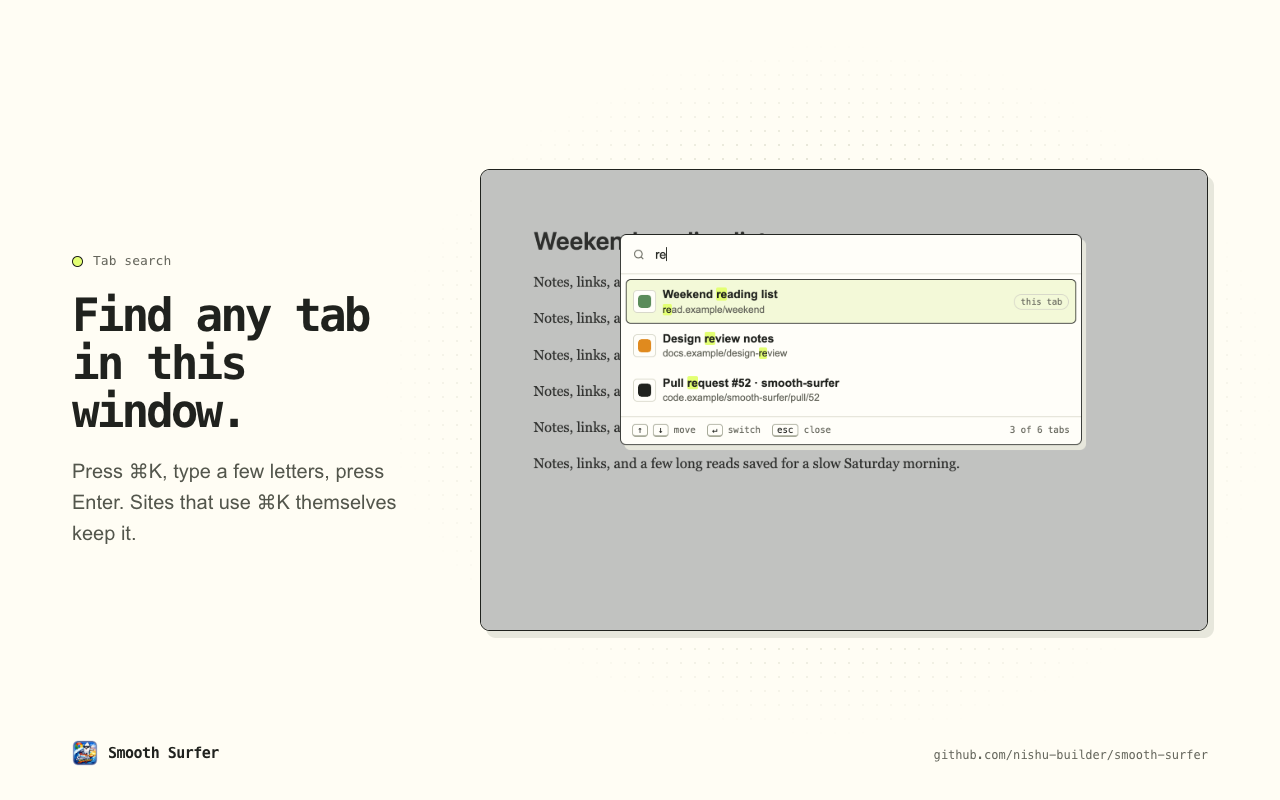
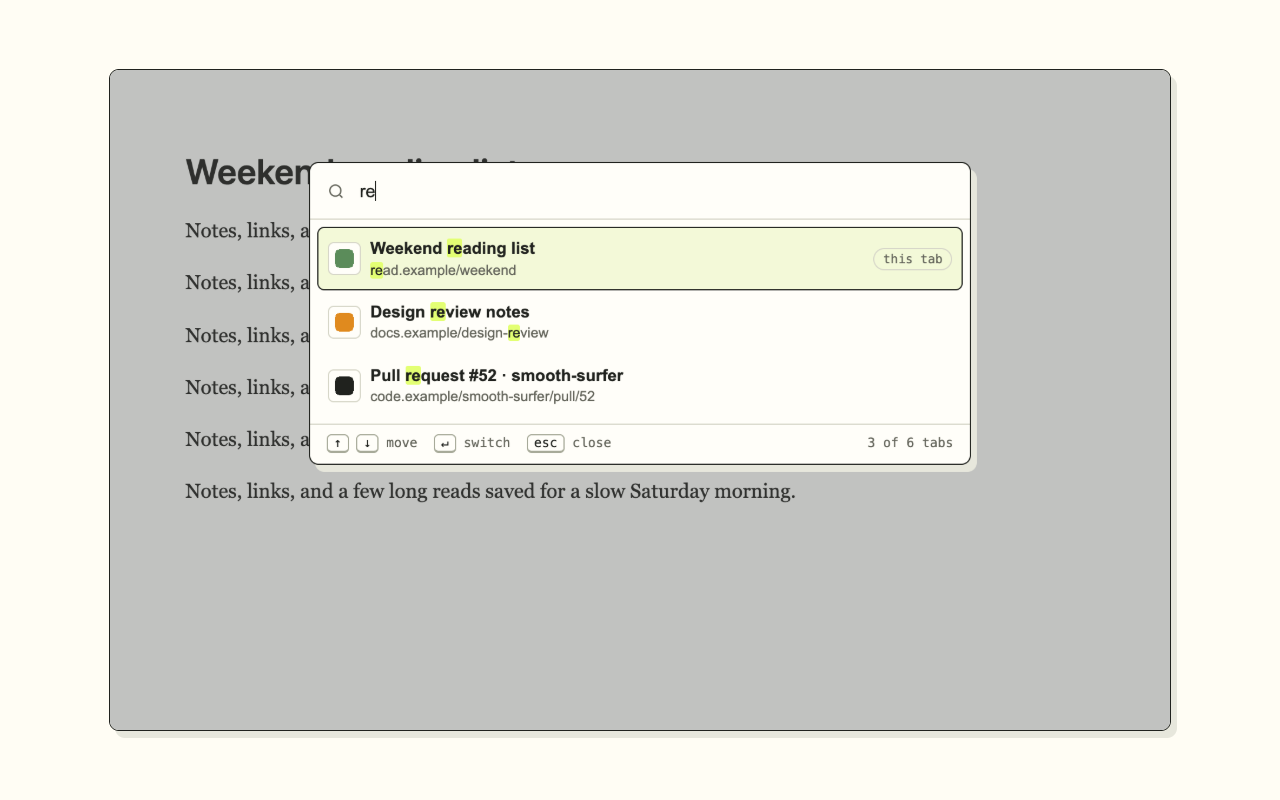
Rewrite the README and store listing in plain words (#62)
The README and listing now open with a plain list of what the extension
does instead of marketing headings, and the store images are plain
captures of the extension with no headline cards. The Consumption Facts
label gets an image, and the promo tile is the icon and name only.

The manifest description changes to match, and RELEASING.md records the
two ways the store step has failed and how to clear each.

diff --git a/README.md b/README.md
@@ -3,20 +3,34 @@
 [![CI](https://github.com/nishu-builder/smooth-surfer/actions/workflows/ci.yml/badge.svg?branch=main)](https://github.com/nishu-builder/smooth-surfer/actions/workflows/ci.yml)
 [![Chrome Web Store](https://img.shields.io/chrome-web-store/v/cgmineplcpnmdfokdblnnapnbpknfghe?label=Chrome%20Web%20Store)](https://chromewebstore.google.com/detail/smooth-surfer/cgmineplcpnmdfokdblnnapnbpknfghe)
 
-Calmer feeds, a pause before habit sites, and pinned tabs that follow you into
-every Chrome window. It works as soon as you install it: no account, no
-analytics, and no Smooth Surfer servers.
+A Chrome extension for making the web less distracting. Some of the things you
+can do with it:
 
-**[Install from the Chrome Web Store →](https://chromewebstore.google.com/detail/smooth-surfer/cgmineplcpnmdfokdblnnapnbpknfghe)**
+- Make things hijack your attention less: hide view counts, Shorts, suggested
+  next videos, make thumbnails, pictures and videos more grayscale, auto-select
+  ‘Following’ feeds over ‘For you’, hide ‘recommended’ posts
+- Filter out content you don’t like (e.g. posts on X/Substack/Reddit) according
+  to LLM-judged rules you set up. And you can review which were filtered out
+  later and note if you agree or not, and why
+- Stop bad habits: can introduce delays that grow with each visit before
+  loading sites you’re prone to getting distracted by
+- Use some sorely missing browser controls: pinned tabs that work more like
+  Arc’s, keyboard shortcuts for changing the speed of a video on your screen,
+  search across tabs
+- See an unserious reflection of your information diet, a la Emmett’s idea
+  [here](https://x.com/eshear/status/1534692002952097792)
 
-![The Smooth Surfer menu: each site and tool shows what is on at a glance](docs/store-assets/01-overview.png)
+It’s on the [Chrome Web Store](https://chromewebstore.google.com/detail/smooth-surfer/cgmineplcpnmdfokdblnnapnbpknfghe),
+or you can [run it from source](#install). There’s no account, no analytics,
+and no server of mine involved. The rest of this page is the detail on each of
+the above.
 
-## What it does
+## Making sites less attention-grabbing
 
-### Calmer feeds
+![The menu, and the YouTube switches](docs/store-assets/01-attention.png)
 
-Cleanup switches for five sites, most on by default. Open the toolbar menu on a
-site and its section opens first, with every switch described in one line.
+Each supported site has its own list of switches in the toolbar menu. Most are
+on by default.
 
 | Site | Switches |
 | --- | --- |
@@ -26,43 +40,49 @@ site and its section opens first, with every switch described in one line.
 | Substack | Hide recommendations |
 | Hacker News | Hide scores |
 
-X, Reddit, Substack, and Hacker News can also use the AI filter below. On X,
-posts stay in place while they are checked; matches fade out, and removals above
-your reading position keep their space so the page never jumps.
+Two more apply on every site except work tools like Docs, GitHub, and Slack:
 
-### AI filter
+- **Gray distracting media** mutes the color of images and video in feeds.
+- **Pause deep scrolling** stops you after about 16 screens of a feed until you
+  choose Keep going.
 
-![Hide posts you'd rather not see, with rules written in plain words](docs/store-assets/02-ai-filter.png)
+**Focus hours** limits all of this to set times of day, including overnight
+ranges.
 
-Describe posts you'd rather not see, like “engagement bait” or “posts that stoke
-FOMO,” and matching posts are hidden. It starts with four editable rules.
+## Filtering posts with rules you write
+
+![The filter settings, and the page listing what it hid](docs/store-assets/02-filter.png)
+
+On X, Reddit, Substack, and Hacker News you can write rules like “engagement
+bait” or “posts that stoke FOMO”, and an LLM hides the posts that match. The
+menu calls this the AI filter. It starts with four rules you can edit.
 
 - **Claude Haiku 4.5** (default) runs with your own Anthropic API key. Optional
   **Analyze images** also sends up to two public post images; it is off by
   default and adds cost and latency.
-- **Gemini Nano** (experimental) runs on this computer through Chrome's
+- **Gemini Nano** (experimental) runs on this computer through Chrome’s
   built-in model. It handles text only and never falls back to the cloud. See
   [on-device setup and limits](docs/LOCAL_MODELS.md).
 
-If the filter is switched on but can't run yet (no key, or no model), the menu
-says so in its header and on each site, with one click to set it up or turn it
-off. If a request fails, posts stay visible and retries are spaced out.
+If the filter is on but can’t run (no key, or no model), the menu says so, with
+one click to set it up or turn it off. If a request fails, posts stay visible
+and retries are spaced out. On X, posts stay in place while they are checked;
+matches fade out, and removals above your reading position keep their space so
+the page doesn’t jump.
 
 On X, the **Less like this** button beside a post opens a rule editor. Write a
 rule, or choose **Suggest rules** and edit one before adding it. Suggestions
 never change your rules on their own.
 
-### Hidden posts
+### Reviewing what was hidden
 
-![Check every call on the Hidden posts page](docs/store-assets/03-hidden-posts.png)
-
-Every post the filter hid appears in **Hidden posts**, with the rule that matched.
-Mark each one a **Right call** or **Wrong call** (← and → on the keyboard),
-optionally explaining why, then choose **Improve rules**. Your selected model
-proposes rewordings and replays your saved examples. A revision is kept only
-if it fixes mistakes without introducing new ones, and the last 30 revisions can
-be undone. It is calibration against your examples, not a guarantee; see
-[the algorithm](docs/CALIBRATION.md).
+Every post the filter hid is listed on the **Hidden posts** page with the rule
+that matched. Mark each one a **Right call** or **Wrong call** (← and → on the
+keyboard) and optionally say why. **Improve rules** then has the model propose
+rewordings and replays your saved examples against them. A revision is kept
+only if it fixes mistakes without introducing new ones, and the last 30
+revisions can be undone. It is calibration against your examples, not a
+guarantee; see [the algorithm](docs/CALIBRATION.md).
 
 <details>
 <summary>Inboxes, keyboard, and storage</summary>
@@ -73,9 +93,9 @@ be undone. It is calibration against your examples, not a guarantee; see
   explain the selected call; Enter returns to the keys.
 - X posts show as native embeds, with saved copies as a fallback.
 - Up to 2,000 hidden and archived posts within 6 MB stay on this device. Hidden
-  posts expire after seven days; archived ones don't. **Archive the rest** moves
+  posts expire after seven days; archived ones don’t. **Archive the rest** moves
   everything still to review into Archived. Calls are stored separately (up to
-  2,000 within 2 MB), so archiving never erases what you taught the filter.
+  2,000 within 2 MB), so archiving never erases them.
 - Improving rules runs in the background and resumes after Chrome restarts.
 
 </details>
@@ -84,13 +104,13 @@ be undone. It is calibration against your examples, not a guarantee; see
 presets, and import or export sets as JSON. Importing adds only what you check,
 up to 20 sets per device, and never includes API keys.
 
-### A pause before habit sites
+## Delays before distracting sites
 
-![A loading delay countdown before x.com](docs/store-assets/04-loading-delay.png)
+![The countdown before x.com, and the list of delayed sites](docs/store-assets/03-loading-delay.png)
 
-Listed sites open behind a short countdown. It's on for YouTube, X, Reddit,
-Substack, and Hacker News by default, and you can add any site from the menu,
-including the one you're on.
+Sites on the list open behind a countdown that gets longer each time you visit
+that day. YouTube, X, Reddit, Substack, and Hacker News are on the list by
+default, and you can add any site from the menu, including the one you’re on.
 
 <details>
 <summary>How the countdown grows</summary>
@@ -98,7 +118,7 @@ including the one you're on.
 - The first wait is 1 second by default (1–300 seconds). Each wait you finish
   that day makes the next one 1.5× longer, up to 20 minutes. Counts reset at
   03:00 local time.
-- The countdown runs only while the tab is visible. Closing the tab early doesn't
+- The countdown runs only while the tab is visible. Closing the tab early doesn’t
   advance the next wait. **Reset count** returns to the first wait.
 - A finished tab keeps its pass across reloads, and waits again after 30 minutes
   in the background. `twitter.com` and `x.com` cover each other.
@@ -107,13 +127,16 @@ including the one you're on.
 
 </details>
 
-### Pinned tabs in every window
+## Browser controls
 
-![Pinned tabs shared across every Chrome window](docs/store-assets/05-pinned-tabs.png)
+![The pinned tabs settings, and the settings that apply on every site](docs/store-assets/04-browser-controls.png)
+
+### Pinned tabs
 
 Press **Cmd+Shift+P** (Alt+P on Windows and Linux) to pin or unpin a tab. Pins
-appear in every regular Chrome window, including new ones, always at the page
-you pinned. Sharing is on by default; turn it off to keep pins per window.
+appear in every regular Chrome window, including new ones, and always sit at
+the page you pinned. Sharing is on by default; turn it off to keep pins per
+window.
 
 <details>
 <summary>How shared pins behave</summary>
@@ -128,36 +151,43 @@ you pinned. Sharing is on by default; turn it off to keep pins per window.
   page in keeps it live. Turn off **Load pins when opened** to keep every copy
   live, for example for unread counts.
 - While sharing is on, the shortcut is the only way to change pins. Pinning or
-  unpinning from Chrome's tab menu is undone. Change the shortcut at
+  unpinning from Chrome’s tab menu is undone. Change the shortcut at
   `chrome://extensions/shortcuts`.
 - Drag pins to reorder them; new windows use the last order you arranged.
 - Private windows are excluded, and saved URLs stay on this device. Chrome may
-  still ask you to press Cmd+W twice to close a pinned tab; extensions can't
+  still ask you to press Cmd+W twice to close a pinned tab; extensions can’t
   change that.
 
 </details>
 
-### Everywhere
+### Video speed keys
 
-![Tab search: find any tab in this window with Cmd+K](docs/store-assets/06-tab-search.png)
+On any site, hold Alt/Option with → or `]` to speed up the video on screen, ←
+or `[` to slow it down, and `\` to reset. The modifier is configurable, or off
+entirely (brackets only).
 
-- **Pause deep scrolling:** after about 16 screens of a feed, a surf break waits
-  for you to choose Keep going.
-- **Gray distracting media:** mutes images and video in feeds. Both of these
-  skip work tools like Docs, GitHub, and Slack.
-- **Video speed keys:** on any site, hold Alt/Option with → or `]` to speed up,
-  ← or `[` to slow down, and `\` to reset. The modifier is configurable, or off
-  entirely (brackets only).
-- **Focus hours:** run Smooth Surfer only between set times, including overnight
-  ranges.
-- **Tab search:** press Cmd+K (Ctrl+K) to search this window's tabs by title or
-  address, with their icons, then Enter to switch. Sites that use Cmd+K themselves, like GitHub or
-  Slack, keep it. It can't open on Chrome's own pages, such as the New Tab page;
-  Chrome's Search tabs (Cmd+Shift+A) covers every window.
+### Tab search
+
+![Tab search over a page](docs/store-assets/06-tab-search.png)
+
+Press Cmd+K (Ctrl+K) to search this window’s tabs by title or address, then
+Enter to switch. Sites that use Cmd+K themselves, like GitHub or Slack, keep
+it. It can’t open on Chrome’s own pages, such as the New Tab page; Chrome’s
+Search tabs (Cmd+Shift+A) covers every window.
+
+## Consumption Facts
+
+![A Consumption Facts label next to the Stats page](docs/store-assets/05-consumption-facts.png)
+
+With **Track consumption** on, the filter’s model also labels the mood of the
+posts you actually saw, and the Stats page shows the day’s totals as a
+nutrition label: what share of your feed was outrage, humor, fear, and so on.
+It is not a serious measurement. The same page counts what was hidden per site
+and why.
+
+## Other settings
+
 - **Settings shortcut:** press Cmd+Shift+S (Ctrl+Shift+S) twice to open the menu.
-- **Stats** counts what was hidden per site and why. With **Track consumption**
-  on, a nutrition-style **Consumption Facts** label breaks down the mood of the
-  posts you actually saw today.
 - **Backup:** export or import every setting as JSON. Your API key is never
   included.
 
@@ -170,11 +200,11 @@ with your own key. See [PRIVACY.md](PRIVACY.md) for details.
 
 ## Install
 
-Most people want the [Chrome Web Store build](https://chromewebstore.google.com/detail/smooth-surfer/cgmineplcpnmdfokdblnnapnbpknfghe),
-which updates automatically. A welcome page opens after installing; pin Smooth
-Surfer from Chrome's extensions menu to keep it one click away.
+The [Chrome Web Store build](https://chromewebstore.google.com/detail/smooth-surfer/cgmineplcpnmdfokdblnnapnbpknfghe)
+updates automatically, but each version waits on Google’s review, so it can be
+behind `main`.
 
-To run it from source (for development or an unreleased version):
+To run it from source instead:
 
 ```sh
 git clone git@github.com:nishu-builder/smooth-surfer.git
@@ -183,6 +213,9 @@ git clone git@github.com:nishu-builder/smooth-surfer.git
 1. Open `chrome://extensions` and turn on **Developer mode**.
 2. Click **Load unpacked** and select the `smooth-surfer` folder.
 3. After pulling changes, reload the extension there and refresh open tabs.
+
+The store build and an unpacked copy are separate extensions with separate
+settings. Run one at a time, and use Backup to move settings between them.
 
 ### iPhone
 

diff --git a/docs/store-listing.md b/docs/store-listing.md
@@ -1,6 +1,6 @@
 # Chrome Web Store listing
 
-Source copy for the Chrome Web Store developer dashboard, updated for 0.4.0.
+Source copy for the Chrome Web Store developer dashboard, updated after 0.4.1.
 Package publishing does not update the long description, privacy answers, or
 screenshots automatically; apply those fields in the dashboard before submission.
 
@@ -9,54 +9,42 @@ screenshots automatically; apply those fields in the dashboard before submission
 **Name:** Smooth Surfer
 
 **Summary (132 chars max):**
-Calmer feeds, a pause before habit sites, and pinned tabs that follow you into every Chrome window.
+Make sites less attention-grabbing, filter posts with rules you write, delay distracting sites, and pin tabs across windows.
 
 **Description:**
 
-Smooth Surfer makes the web a little less sticky.
+A Chrome extension for making the web less distracting. Some of the things you can do with it:
 
-Cleaner feeds
-Hide recommendations, Shorts, ads, trends, and engagement counts on YouTube,
-X, Reddit, Substack, and Hacker News. Turn each one on or off per site.
+- Make things hijack your attention less: hide view counts, Shorts, suggested next videos, make thumbnails, pictures and videos more grayscale, auto-select 'Following' feeds over 'For you', hide 'recommended' posts. There are switches for YouTube, X, Reddit, Substack and Hacker News.
 
-Filter posts with your own rules
-Describe what you don't want to see in plain English, and Smooth Surfer hides
-matching posts. Use Claude with your own Anthropic API key, or Chrome's
-on-device model. Check each hidden post as a right or wrong call, then improve
-your rules from your answers.
+- Filter out content you don't like (e.g. posts on X/Substack/Reddit) according to LLM-judged rules you set up. And you can review which were filtered out later and note if you agree or not, and why. It uses Claude with your own Anthropic API key, or Chrome's on-device model.
 
-A pause before habit sites
-Distracting sites open behind a short countdown that grows each time you visit
-that day. It's on for the built-in sites by default, and you can add any other.
+- Stop bad habits: can introduce delays that grow with each visit before loading sites you're prone to getting distracted by.
 
-Pinned tabs in every window
-Pin a tab with Cmd+Shift+P (Alt+P on Windows/Linux) and it appears in every
-Chrome window. Pins stay at their saved page, closing one brings it back
-instead of losing it, and copies in other windows sleep until you open them.
+- Use some sorely missing browser controls: pinned tabs that work more like Arc's (Cmd+Shift+P, or Alt+P on Windows/Linux, pins a tab in every window), keyboard shortcuts for changing the speed of a video on your screen, search across tabs (Cmd+K or Ctrl+K).
 
-Find any tab
-Press Cmd+K (Ctrl+K) to search this window's tabs and jump to one. Sites that
-use Cmd+K themselves keep it.
+- See an unserious reflection of your information diet, a la Emmett's idea here: https://x.com/eshear/status/1534692002952097792
 
-Everything works as soon as you install it, and every setting explains itself.
-No account, no analytics, and no Smooth Surfer servers. Open source:
-https://github.com/nishu-builder/smooth-surfer
+No account, no analytics, and no server of mine involved. Post text leaves your browser only if you turn on the filter with Claude, and then it goes to Anthropic with your own key.
+
+Source: https://github.com/nishu-builder/smooth-surfer
 
 **Category:** Productivity → Workflow & Planning
 
 **Screenshots** (1280×800, from [store-assets/](store-assets/); regenerate with
-`node scripts/capture-store-assets.mjs`). The store allows five; upload these,
-in this order:
+`node scripts/capture-store-assets.mjs`). They are plain captures of the
+extension with no added copy. The store allows five; upload these, in this
+order, one per item in the description:
 
-1. `01-overview.png`: Calmer feeds, no setup needed.
-2. `06-tab-search.png`: Find any tab in this window.
-3. `02-ai-filter.png`: Hide posts you'd rather not see.
-4. `04-loading-delay.png`: A pause before habit sites.
-5. `05-pinned-tabs.png`: Pins in every window.
+1. `01-attention.png`: the menu and the YouTube switches.
+2. `02-filter.png`: the filter settings and the Hidden posts page.
+3. `03-loading-delay.png`: a countdown and the list of delayed sites.
+4. `04-browser-controls.png`: pinned tabs, video speed keys, and tab search settings.
+5. `05-consumption-facts.png`: a Consumption Facts label and the Stats page.
 
-`03-hidden-posts.png` (Check every call) is used in the README only.
+`06-tab-search.png` (tab search open over a page) is used in the README only.
 
-**Small promo tile** (440×280): `promo-tile-440x280.png`
+**Small promo tile** (440×280): `promo-tile-440x280.png` (the icon and the name).
 
 **Language:** English
 
@@ -115,10 +103,8 @@ https://github.com/nishu-builder/smooth-surfer/blob/main/PRIVACY.md
 ## Store assets
 
 - Icon: `icons/icon128.png` (128x128).
-- Screenshots: `docs/store-assets/shot-1-menu.png` through `shot-5-menu.png`
-  (1280x800): YouTube controls, other site controls, loading delays and pinned
-  tabs, filtering and cross-site controls, and Consumption Facts.
-- Regenerate screenshots with `npm run screenshots` using Chrome for Testing.
+- Screenshots and promo tile: listed under [Store listing tab](#store-listing-tab).
+- Regenerate them with `npm run screenshots` using Chrome for Testing.
 
 ## Submission checklist
 

diff --git a/docs/RELEASING.md b/docs/RELEASING.md
@@ -84,3 +84,21 @@ submission; verify the public listing separately before reporting a version as l
 If auto-publish is ever turned off, the fallback is manual: download the zip
 from the workflow artifact (or run `npm run package`) and upload it in the
 developer dashboard.
+
+## When the upload or publish step fails (human)
+
+Both failures seen so far are fixed in the developer dashboard, not in this
+repo.
+
+- `ITEM_NOT_UPDATABLE` at upload: an earlier submission is still pending
+  review or staged, and the store takes no new package until it is published,
+  cancelled, or reviewed. Resolve it in the dashboard, then re-run the failed
+  job.
+- `Publish condition not met … Privacy practices tab` at publish: the package
+  did upload and is now a draft, but a required privacy field is empty. This
+  happens when a version adds a permission that has no justification yet. Fill
+  in the Privacy practices tab from [store-listing.md](store-listing.md), then
+  choose **Submit for review** in the dashboard. Don't re-run the job; the
+  draft already holds that version.
+
+Don't push the next `v*` tag while a submission is in review.

diff --git a/CHANGELOG.md b/CHANGELOG.md
@@ -5,6 +5,7 @@ release is a `v*` tag; see [docs/RELEASING.md](docs/RELEASING.md).
 
 ## Unreleased
 
+- Rewrite the README and store listing in plainer words, and replace the headline cards in `docs/store-assets/` with plain screenshots. The extension's description in `chrome://extensions` changes to match.
 - Stop leaving a `data-smooth-surfer-pending-key` attribute on posts while they are being checked. It held your filter rules and the post text where the page itself could read it, and nothing used it.
 - Internal cleanup with no change in behavior: shared helpers replace copies across the popup, review, filter-set and welcome pages; the worker's Anthropic request, write queues and daily logs each have one implementation; unused code and styles are gone.
 - `npm run check` now uses Node's test runner and syntax-checks every script in `src/` (six were never checked). CI also runs ESLint and Prettier.
